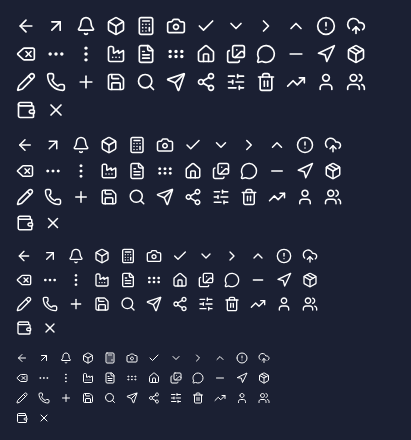
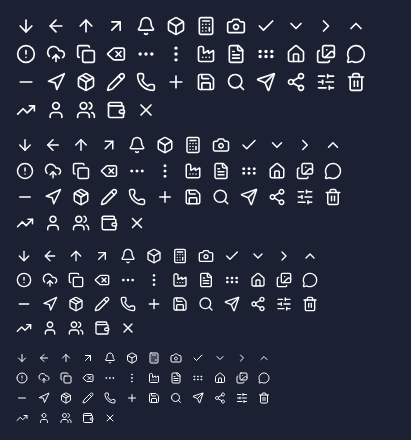
Feat(designsystem) · text-field colours and three glyphs
`EtalonTextField` is the app's one form input: M3's `OutlinedTextField` with
`EtalonTextFieldDefaults.colors()` — `page` container, `surfaceBorder` hairline that
only focus paints `indigo`, `ink` text, `ink3` placeholder and supporting line, `red`
for every error state — `EtalonShapes.md`, `EtalonType.body`, and a 48 dp minimum
height for D7. It gives the "no `OutlinedTextField` with default colours" constraint
somewhere to point; `SearchField` stays its own 40 dp pill.

Three Lucide glyphs the calculator's MoreRow needs: `arrow-up`, `arrow-down` and
`copy` (its front sheet written out as a path — a vector drawable has no rect).

`ds_kept_light` gains four field states (empty with placeholder, filled, «+998 »
prefix, error with its reason); the sheet's height qualifier goes to 1900 dp so the
sticky bar at its foot is not clipped. The focused state is not photographed — a
blinking cursor is not a stable baseline. `ds_icons_*` re-record with the three glyphs.

diff --git a/android/core/designsystem/src/main/kotlin/uz/etalon/crm/core/designsystem/components/EtalonTextField.kt b/android/core/designsystem/src/main/kotlin/uz/etalon/crm/core/designsystem/components/EtalonTextField.kt
@@ -1,0 +1,101 @@
+package uz.etalon.crm.core.designsystem.components
+
+import androidx.compose.foundation.layout.heightIn
+import androidx.compose.foundation.text.KeyboardOptions
+import androidx.compose.material3.OutlinedTextField
+import androidx.compose.material3.OutlinedTextFieldDefaults
+import androidx.compose.material3.Text
+import androidx.compose.material3.TextFieldColors
+import androidx.compose.runtime.Composable
+import androidx.compose.ui.Modifier
+import androidx.compose.ui.text.TextStyle
+import androidx.compose.ui.text.input.VisualTransformation
+import androidx.compose.ui.unit.dp
+import uz.etalon.crm.core.designsystem.theme.EtalonColors
+import uz.etalon.crm.core.designsystem.theme.EtalonShapes
+import uz.etalon.crm.core.designsystem.theme.EtalonType
+
+/** §3.4: a form input is `page`-filled with a hairline, radius md; the touch slot is D7's 48 dp. */
+private val FIELD_MIN_HEIGHT = 48.dp
+
+object EtalonTextFieldDefaults {
+    /**
+     * §1.1 tokens on M3's outlined field: the container is the page colour rather than white (a
+     * white field on a white card has no edge), the hairline is [EtalonColors.surfaceBorder] and
+     * only focus paints it [EtalonColors.indigo]. Text is `ink`, the placeholder and the
+     * supporting line are `ink3`, and every error state is the one `red`.
+     *
+     * Disabled is deliberately the same fill at `ink3` text: this app disables a field to say
+     * "not yet", never "never", and a greyed-out container reads as broken.
+     */
+    @Composable
+    fun colors(): TextFieldColors = OutlinedTextFieldDefaults.colors(
+        focusedTextColor = EtalonColors.ink,
+        unfocusedTextColor = EtalonColors.ink,
+        disabledTextColor = EtalonColors.ink3,
+        errorTextColor = EtalonColors.ink,
+        focusedContainerColor = EtalonColors.page,
+        unfocusedContainerColor = EtalonColors.page,
+        disabledContainerColor = EtalonColors.page,
+        errorContainerColor = EtalonColors.page,
+        cursorColor = EtalonColors.indigo,
+        errorCursorColor = EtalonColors.red,
+        focusedBorderColor = EtalonColors.indigo,
+        unfocusedBorderColor = EtalonColors.surfaceBorder,
+        disabledBorderColor = EtalonColors.surfaceBorder,
+        errorBorderColor = EtalonColors.red,
+        focusedPlaceholderColor = EtalonColors.ink3,
+        unfocusedPlaceholderColor = EtalonColors.ink3,
+        disabledPlaceholderColor = EtalonColors.ink3,
+        errorPlaceholderColor = EtalonColors.ink3,
+        focusedPrefixColor = EtalonColors.ink2,
+        unfocusedPrefixColor = EtalonColors.ink2,
+        disabledPrefixColor = EtalonColors.ink3,
+        errorPrefixColor = EtalonColors.ink2,
+        focusedSupportingTextColor = EtalonColors.ink3,
+        unfocusedSupportingTextColor = EtalonColors.ink3,
+        disabledSupportingTextColor = EtalonColors.ink3,
+        errorSupportingTextColor = EtalonColors.red,
+    )
+}
+
+/**
+ * The app's one text input. An M3 [OutlinedTextField] with [EtalonTextFieldDefaults.colors] and
+ * [EtalonShapes.md], so no screen has to remember the token list — and so the global constraint
+ * "no `OutlinedTextField` with default colours" has somewhere to point.
+ *
+ * [SearchField] stays its own thing: it is a 40 dp pill with a leading glyph, not a form field.
+ *
+ * @param prefix a fixed run before the value that is not part of it — «+998 » on a phone number.
+ *   It is drawn, never typed, so [onValueChange] never sees it.
+ * @param supportingText the line under the field. With [isError] it is the reason, in `red`;
+ *   without, a hint in `ink3`.
+ */
+@Composable
+fun EtalonTextField(
+    value: String,
+    onValueChange: (String) -> Unit,
+    modifier: Modifier = Modifier,
+    placeholder: String? = null,
+    singleLine: Boolean = true,
+    keyboardOptions: KeyboardOptions = KeyboardOptions.Default,
+    visualTransformation: VisualTransformation = VisualTransformation.None,
+    textStyle: TextStyle = EtalonType.body,
+    prefix: String? = null,
+    isError: Boolean = false,
+    supportingText: String? = null,
+) = OutlinedTextField(
+    value = value,
+    onValueChange = onValueChange,
+    modifier = modifier.heightIn(min = FIELD_MIN_HEIGHT),
+    textStyle = textStyle,
+    placeholder = placeholder?.let { { Text(it, style = textStyle, maxLines = 1) } },
+    prefix = prefix?.let { { Text(it, style = textStyle) } },
+    supportingText = supportingText?.let { { Text(it, style = EtalonType.meta) } },
+    isError = isError,
+    singleLine = singleLine,
+    keyboardOptions = keyboardOptions,
+    visualTransformation = visualTransformation,
+    shape = EtalonShapes.md,
+    colors = EtalonTextFieldDefaults.colors(),
+)

diff --git a/android/core/designsystem/src/test/kotlin/uz/etalon/crm/core/designsystem/KeptComponentsScreenshotTest.kt b/android/core/designsystem/src/test/kotlin/uz/etalon/crm/core/designsystem/KeptComponentsScreenshotTest.kt
@@ -5,11 +5,13 @@ import androidx.compose.foundation.layout.Arrangement
 import androidx.compose.foundation.layout.Column
 import androidx.compose.foundation.layout.fillMaxWidth
 import androidx.compose.foundation.layout.padding
+import androidx.compose.foundation.text.KeyboardOptions
 import androidx.compose.material3.Text
 import androidx.compose.runtime.Composable
 import androidx.compose.ui.Modifier
 import androidx.compose.ui.test.junit4.createComposeRule
 import androidx.compose.ui.test.onRoot
+import androidx.compose.ui.text.input.KeyboardType
 import androidx.compose.ui.unit.dp
 import com.github.takahirom.roborazzi.captureRoboImage
 import org.junit.Rule
@@ -23,6 +25,7 @@ import uz.etalon.crm.core.designsystem.components.CountStepper
 import uz.etalon.crm.core.designsystem.components.CustodyChain
 import uz.etalon.crm.core.designsystem.components.EmptyState
 import uz.etalon.crm.core.designsystem.components.ErrorBanner
+import uz.etalon.crm.core.designsystem.components.EtalonTextField
 import uz.etalon.crm.core.designsystem.components.NoticeBanner
 import uz.etalon.crm.core.designsystem.components.NumericKeypad
 import uz.etalon.crm.core.designsystem.components.OutboxBanner
@@ -48,9 +51,9 @@ private val CHAIN = CustodyChainModel(
 )
 
 /**
- * The fourteen components the restyle kept, on one sheet: none of them is new, and every one of
- * them now reads [EtalonColors] and [EtalonType] alone. A reviewer can reject a tint, a radius or
- * a weight here without opening a screen.
+ * The components the restyle kept, on one sheet, plus the one the calculator adds
+ * ([EtalonTextField]): every one of them reads [EtalonColors] and [EtalonType] alone. A reviewer
+ * can reject a tint, a radius or a weight here without opening a screen.
  *
  * `Lightbox`, `DriverPicker` and `RegionPickerSheet` are absent because each owns a `Dialog` or a
  * `ModalBottomSheet` and cannot be composed into a sheet like this — two full-screen scrims over
@@ -59,7 +62,7 @@ private val CHAIN = CustodyChainModel(
  */
 @RunWith(RobolectricTestRunner::class)
 @GraphicsMode(GraphicsMode.Mode.NATIVE)
-@Config(sdk = [36], qualifiers = "w411dp-h1600dp")
+@Config(sdk = [36], qualifiers = "w411dp-h1900dp")
 class KeptComponentsScreenshotTest {
     @get:Rule val rule = createComposeRule()
 
@@ -89,6 +92,20 @@ private fun KeptSheet() = Column(
     CustodyChain(CHAIN)
     PhotoStrip(photos = emptyList(), onOpen = {}, onAdd = {})
     RegionField("Вилоят", "Тошкент", onOpen = {})
+    // EtalonTextField: empty with its placeholder, filled, with the «+998 » prefix, and in error
+    // with its reason. The focused state is not here — a blinking cursor is not a stable baseline,
+    // and faking the focused border with a second colours object would photograph the fake rather
+    // than the component. The indigo focus border is checked on the emulator instead.
+    EtalonTextField(value = "", onValueChange = {}, placeholder = "Исм", modifier = Modifier.fillMaxWidth())
+    EtalonTextField(value = "Азиз Раҳимов", onValueChange = {}, modifier = Modifier.fillMaxWidth())
+    EtalonTextField(
+        value = "90 481 33 30", onValueChange = {}, modifier = Modifier.fillMaxWidth(), prefix = "+998 ",
+        keyboardOptions = KeyboardOptions(keyboardType = KeyboardType.Phone),
+    )
+    EtalonTextField(
+        value = "12", onValueChange = {}, modifier = Modifier.fillMaxWidth(), isError = true,
+        supportingText = "Телефон рақами тўлиқ эмас",
+    )
     NumericKeypad(
         value = "4000000",
         suffix = "UZS",

diff --git a/android/core/designsystem/src/main/kotlin/uz/etalon/crm/core/designsystem/icon/EtalonIcons.kt b/android/core/designsystem/src/main/kotlin/uz/etalon/crm/core/designsystem/icon/EtalonIcons.kt
@@ -18,7 +18,9 @@ import uz.etalon.crm.core.designsystem.theme.EtalonColors
  * whole set can be listed in a test. §1.6 sizes: 20 nav · 18 header · 16 inline · 12 in a square.
  */
 object EtalonIcons {
+    val ArrowDown = R.drawable.ic_lu_arrow_down
     val ArrowLeft = R.drawable.ic_lu_arrow_left
+    val ArrowUp = R.drawable.ic_lu_arrow_up
     val ArrowUpRight = R.drawable.ic_lu_arrow_up_right
     val Bell = R.drawable.ic_lu_bell
     val Box = R.drawable.ic_lu_box
@@ -30,6 +32,7 @@ object EtalonIcons {
     val ChevronUp = R.drawable.ic_lu_chevron_up
     val CircleAlert = R.drawable.ic_lu_circle_alert
     val CloudUpload = R.drawable.ic_lu_cloud_upload
+    val Copy = R.drawable.ic_lu_copy
     val Delete = R.drawable.ic_lu_delete
     val Ellipsis = R.drawable.ic_lu_ellipsis
     val EllipsisVertical = R.drawable.ic_lu_ellipsis_vertical
@@ -61,10 +64,11 @@ object EtalonIcons {
 
     /** Every glyph, for the render test and the token sheet. */
     val all: List<Pair<String, Int>> = listOf(
-        "arrow-left" to ArrowLeft, "arrow-up-right" to ArrowUpRight, "bell" to Bell, "box" to Box,
+        "arrow-down" to ArrowDown, "arrow-left" to ArrowLeft, "arrow-up" to ArrowUp,
+        "arrow-up-right" to ArrowUpRight, "bell" to Bell, "box" to Box,
         "calculator" to Calculator, "camera" to Camera, "check" to Check, "chevron-down" to ChevronDown,
         "chevron-right" to ChevronRight, "chevron-up" to ChevronUp, "circle-alert" to CircleAlert,
-        "cloud-upload" to CloudUpload, "delete" to Delete, "ellipsis" to Ellipsis,
+        "cloud-upload" to CloudUpload, "copy" to Copy, "delete" to Delete, "ellipsis" to Ellipsis,
         "ellipsis-vertical" to EllipsisVertical, "factory" to Factory, "file-text" to FileText,
         "grip-horizontal" to GripHorizontal,
         "house" to House, "images" to Images, "message-circle" to MessageCircle, "minus" to Minus,
